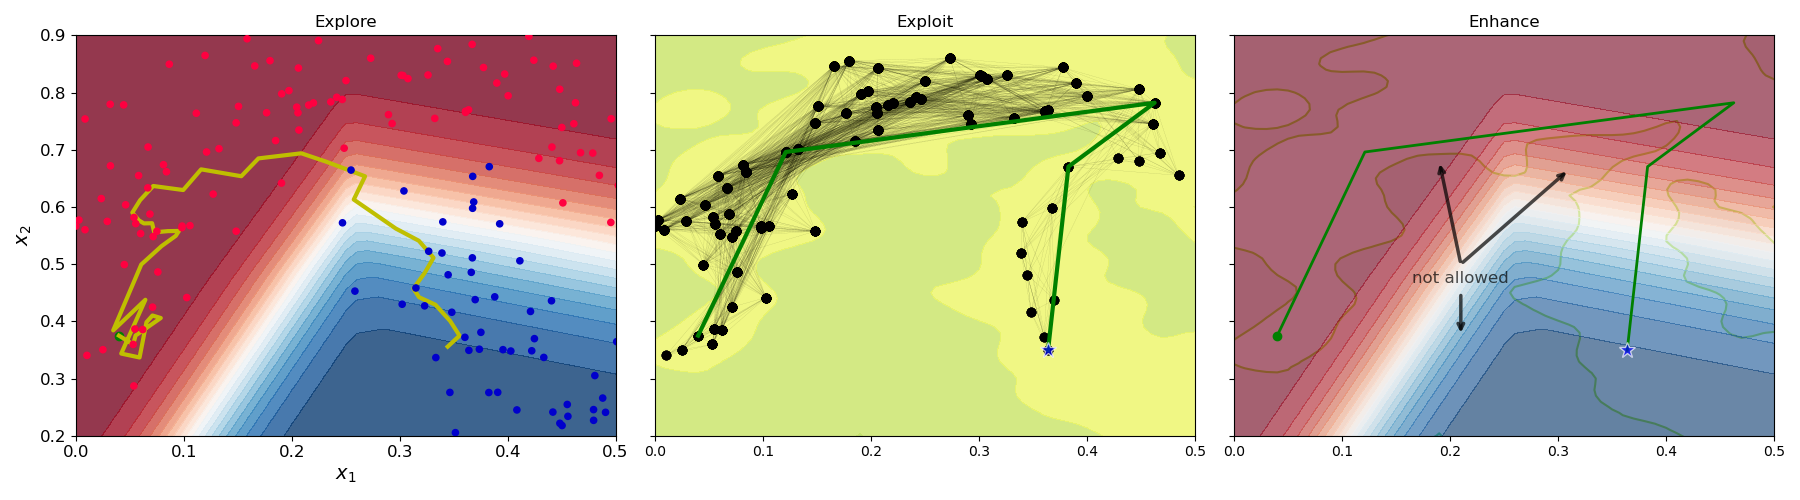
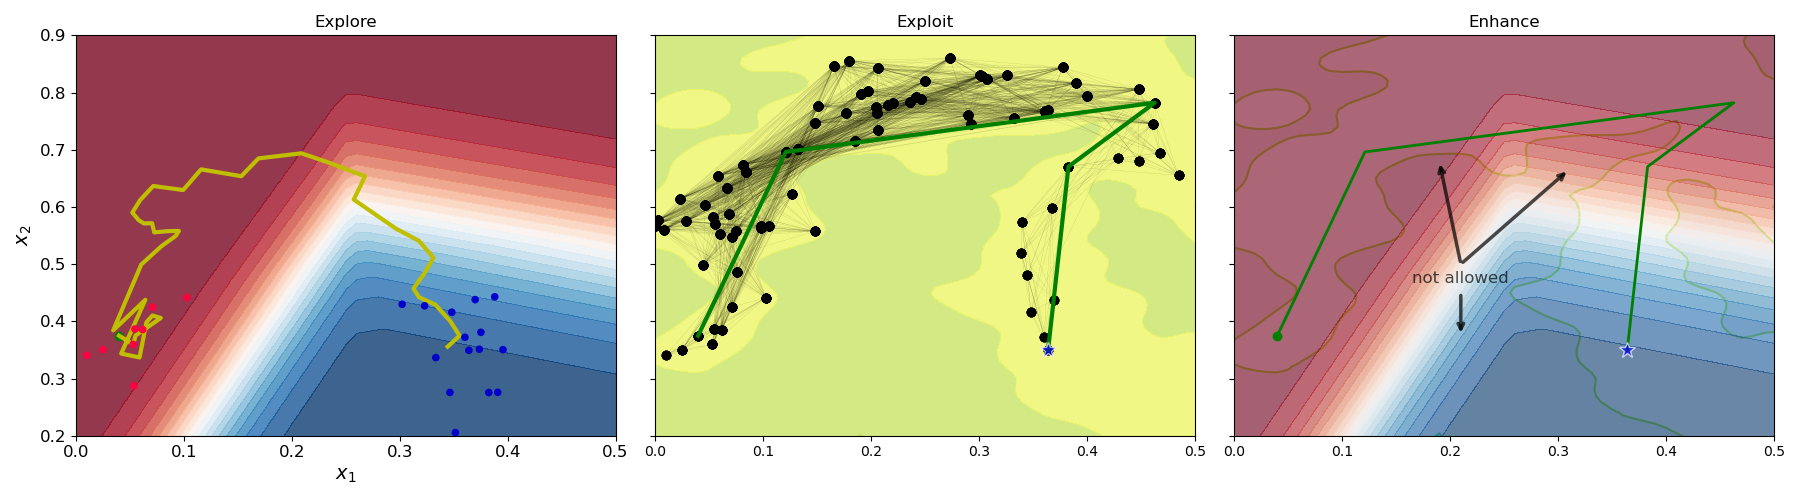
Can constrain search parameters

diff --git a/local_face/helpers/datasets.py b/local_face/helpers/datasets.py
@@ -3,15 +3,16 @@ import pandas as pd
 from sklearn import preprocessing
 from sklearn.datasets import make_moons, make_circles, make_blobs
 
+
 def creat_custom(num=300, seed=10, noise=0.15):
     np.random.seed(seed + 1)
     X1, y1 = make_blobs(n_samples=int(num / 4), n_features=2, centers=[(0.8, -0.2)],
-                        cluster_std=2*noise)
+                        cluster_std=2 * noise)
     X2, y2 = make_moons(n_samples=num, noise=noise)
-    #X3, y3 = make_blobs(n_samples=int(num / 50), n_features=2, centers=[(-0.3, 0), (-0.3, 0)], cluster_std=noise * 3)
+    # X3, y3 = make_blobs(n_samples=int(num / 50), n_features=2, centers=[(-0.3, 0), (-0.3, 0)], cluster_std=noise * 3)
 
-    X = np.concatenate((X1, X2)) #, X3))
-    y = np.concatenate((y1, y2)) #, y3))
+    X = np.concatenate((X1, X2))  # , X3))
+    y = np.concatenate((y1, y2))  # , y3))
 
     X = preprocessing.minmax_scale(X)
 
@@ -48,3 +49,24 @@ def create_blobs(num=300, seed=10, noise=0.15):
     df = pd.DataFrame(preprocessing.minmax_scale(X), columns=["x1", "x2"])
     df["y"] = y
     return df
+
+
+def constrain_search(data, cons):
+    """
+    return the query data set only containing accessible data
+    Args:
+        data: original data set
+        con: conditions for dropping a row in each feature
+
+    Returns: accessible data
+    """
+    con_data = data.copy()
+    if len(cons) != data.shape[1]:
+        raise ValueError("Must pass a constraint for each feature")
+    for i, con1 in enumerate(cons):
+        if con1 is not None:
+            for con2 in con1:
+                condition = "con_data.drop(con_data[con_data.iloc[:, i]" + con2 + "].index, inplace=True)"
+                exec(condition)
+
+    return con_data

diff --git a/example.py b/example.py
@@ -27,6 +27,9 @@ data = generator(samples, seed, noise)  # generate data
 X = data.iloc[:, :2]  # ensure data is 2d
 y = data.y  # get target
 
+con_X = datasets.constrain_search(X, [[">0.4"], ["<0.05", ">0.45"]])
+con_X['y'] = data.y
+
 # train model and density estimator using training data
 model = MLPClassifier(hidden_layer_sizes=(14, 11, 8), random_state=1, max_iter=700).fit(X, y)
 dense = KernelDensity(kernel='gaussian', bandwidth=band_width).fit(X)
@@ -66,7 +69,7 @@ print('Total time taken: {} seconds'.format(np.round(time.time() - start_total, 
 if not graph:
     fig, ax = plt.subplots(nrows=1, ncols=3, figsize=(18, 5), sharey=True)
     # finding counterfactual
-    ax[0] = plot_dataset(ax[0], data)
+    ax[0] = plot_dataset(ax[0], con_X)
     ax[0] = plot_decision_boundary(ax[0], X1, model)
     ax[0].plot(factual[0], factual[1], 'go', label='factual')
     ax[0].plot(steps[:, 0], steps[:, 1], '-y', label='Explore', linewidth=3)
